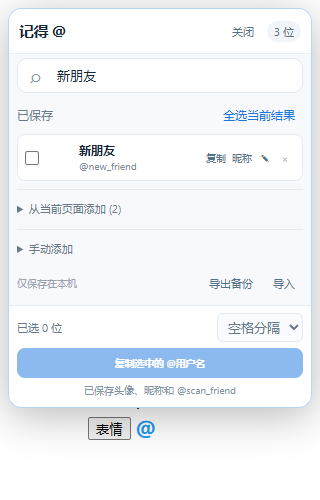
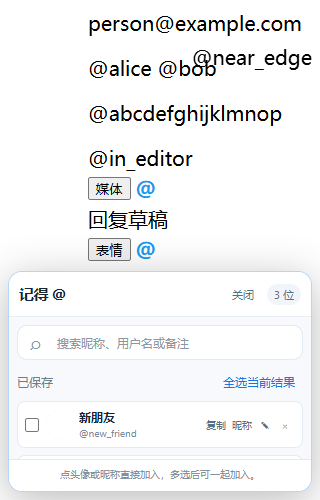
feat: insert saved mentions directly at the composer caret

diff --git a/content.js b/content.js
@@ -89,15 +89,22 @@
   document.addEventListener('keydown', event => { if (event.key === 'Escape') hide(); });
 })();
 
-// Mount one small launcher in each editor toolbar, outside its editable DOM. No editor
-// text, selection, submit button or X network request is changed.
+// Mount one small launcher in each editor toolbar. Only an explicit contact click
+// inserts mentions into its bound editor; the extension never submits a post.
 (() => {
   const editorSelector = '[contenteditable="true"][data-testid^="tweetTextarea_"],textarea[data-testid^="tweetTextarea_"]';
   const mounted = new Map();
-  let panel, frame, launcher, desiredHeight = 280;
+  let panel, frame, launcher, desiredHeight = 280, composerToken, bookmark;
+  function remember(editor) {
+    if (editor instanceof HTMLTextAreaElement) return {editor,start:editor.selectionStart,end:editor.selectionEnd};
+    const selection=window.getSelection();
+    if(selection?.rangeCount&&editor.contains(selection.getRangeAt(0).commonAncestorContainer))return {editor,range:selection.getRangeAt(0).cloneRange()};
+    return bookmark?.editor===editor?bookmark:{editor};
+  }
   function close(restoreFocus = true) {
     panel?.remove(); panel = null; frame = null;
     launcher?.setAttribute('aria-expanded', 'false');
+    composerToken = null;
     if (restoreFocus && launcher?.isConnected) launcher.focus();
   }
   function fit() {
@@ -114,13 +121,16 @@
   }
   function open(button) {
     if(panel&&launcher===button){close();return;}
-    close(false); launcher = button;desiredHeight=280;launcher.setAttribute('aria-expanded','true');
+    const editor=[...mounted].find(([,record])=>record.button===button)?.[0];
+    if(!editor?.isConnected)return;
+    const savedSelection=remember(editor);
+    close(false); launcher = button;bookmark=savedSelection;composerToken=crypto.randomUUID();desiredHeight=280;launcher.setAttribute('aria-expanded','true');
     panel = document.createElement('div');
     panel.dataset.xmsPanel = '';
     panel.setAttribute('role', 'dialog'); panel.setAttribute('aria-label', '记得 @ 收藏');
     panel.style.cssText = 'box-sizing:border-box;position:fixed;z-index:2147483646;background:white;border:1px solid #b4d6fa;border-radius:14px;box-shadow:0 8px 40px #0004;overflow:hidden';
     frame = document.createElement('iframe');
-    frame.src = chrome.runtime.getURL('popup.html') + '?parentOrigin=' + encodeURIComponent(location.origin); frame.title = '记得 @ 收藏';
+    frame.src = chrome.runtime.getURL('popup.html') + '?parentOrigin=' + encodeURIComponent(location.origin) + '&composer=' + composerToken; frame.title = '记得 @ 收藏';
     frame.allow = 'clipboard-write';
     frame.style.cssText = 'width:100%;height:100%;border:0;display:block';
     panel.append(frame); document.documentElement.append(panel); fit();
@@ -175,6 +185,7 @@
       button.setAttribute('aria-label', '打开记得 @ 收藏'); button.setAttribute('aria-haspopup', 'dialog');
       button.setAttribute('aria-expanded', 'false');
       button.style.cssText = 'box-sizing:border-box;display:inline-flex;align-items:center;justify-content:center;flex:0 0 30px;width:30px;height:30px;min-width:30px;max-height:30px;padding:0;margin:0;border:0;border-radius:50%;background:transparent;color:rgb(29,155,240);font:600 20px/1 system-ui;cursor:pointer;touch-action:manipulation;vertical-align:middle';
+      button.addEventListener('pointerdown', () => { bookmark=remember(editor); });
       button.addEventListener('click', () => open(button));
       let floating = !toolbar;
       if (toolbar) {
@@ -202,7 +213,11 @@
   }).observe(document.documentElement, { childList: true, subtree: true });
   window.addEventListener('message', event => {
     if (!frame || event.source !== frame.contentWindow || event.origin !== chrome.runtime.getURL('').replace(/\/$/, '')) return;
-    if(event.data?.type==='xms-close-panel')close();
+    if(event.data?.type==='xms-close-panel'){
+      // Let the native key/click finish before destroying its originating iframe.
+      const closingFrame=frame,restoreFocus=event.data.inserted!==true;
+      setTimeout(()=>{if(frame===closingFrame)close(restoreFocus);},60);
+    }
     else if(event.data?.type==='xms-panel-size'&&Number.isFinite(event.data.height)){
       const next=Math.max(180,Math.min(400,event.data.height));if(Math.abs(next-desiredHeight)>1){desiredHeight=next;fit();}
     }
@@ -214,6 +229,35 @@
   window.visualViewport?.addEventListener('scroll', reposition);
   window.addEventListener('resize', reposition);
   document.addEventListener('scroll', reposition, true);
+  chrome.runtime.onMessage.addListener((message,sender,respond)=>{
+    if(sender.id!==chrome.runtime.id||message?.type!=='xms-insert-mentions')return;
+    try{
+      const editor=bookmark?.editor;
+      if(!panel||message.composerToken!==composerToken||!editor?.isConnected||![...mounted].some(([node,record])=>node===editor&&record.button===launcher))throw new Error('原输入框已关闭，请从需要填写的输入框重新打开 @');
+      if(editor instanceof HTMLTextAreaElement?(editor.disabled||editor.readOnly):!editor.isContentEditable)throw new Error('此输入框暂时无法编辑，请使用复制');
+      if(!Array.isArray(message.handles)||!message.handles.length||message.handles.length>100||message.handles.some(handle=>typeof handle!=='string'||! /^[A-Za-z0-9_]{1,15}$/.test(handle)))throw new Error('用户名格式不正确');
+      const separator=message.separator==='\n'?'\n':' ',mentions=message.handles.map(handle=>'@'+handle).join(separator);
+      editor.focus();
+      if(document.activeElement!==editor&&!editor.contains(document.activeElement))throw new Error('无法定位原输入框，请重新打开 @');
+      let before,after,range;
+      if(editor instanceof HTMLTextAreaElement){before=editor.value.slice(0,bookmark.start);after=editor.value.slice(bookmark.end);}
+      else{
+        range=bookmark.range;
+        if(!range||!editor.contains(range.commonAncestorContainer)){range=document.createRange();range.selectNodeContents(editor);range.collapse(false);}
+        const left=range.cloneRange();left.selectNodeContents(editor);left.setEnd(range.startContainer,range.startOffset);before=left.toString();
+        const right=range.cloneRange();right.selectNodeContents(editor);right.setStart(range.endContainer,range.endOffset);after=right.toString();
+        const selection=window.getSelection();selection.removeAllRanges();selection.addRange(range);
+      }
+      const text=(before&&!/\s$/.test(before)?separator:'')+mentions+(!after||!/^\s/.test(after)?separator:'');
+      if(editor instanceof HTMLTextAreaElement){
+        Object.getOwnPropertyDescriptor(HTMLTextAreaElement.prototype,'value').set.call(editor,before+text+after);
+        editor.setSelectionRange(before.length+text.length,before.length+text.length);
+        editor.dispatchEvent(new InputEvent('input',{bubbles:true,inputType:'insertText',data:text}));
+      }else if(!document.execCommand('insertText',false,text))throw new Error('此输入框暂不支持直接加入，请使用复制');
+      bookmark=remember(editor);respond({ok:true});
+    }catch(error){respond({ok:false,error:error.message});}
+    return false;
+  });
   mount();
 })();
 

diff --git a/popup.js b/popup.js
@@ -5,6 +5,9 @@ const selected = new Set();
 let editing = false;
 let pageProfiles = [];
 let candidateSignature = '';
+const composerToken=new URLSearchParams(location.search).get('composer');
+const canInsert=window.parent!==window&&/^[a-f0-9-]{36}$/i.test(composerToken||'');
+let inserting=false;
 function parentOrigin(){try{const origin=new URLSearchParams(location.search).get('parentOrigin')||new URL(document.referrer).origin;return /^https:\/\/(www\.)?(x|twitter)\.com$/.test(origin)?origin:null;}catch{return null;}}
 function notifySize(){if(window.parent===window)return;requestAnimationFrame(()=>{const main=document.querySelector('main'),children=[...main.children].filter(e=>e.getClientRects().length),top=main.getBoundingClientRect().top,bottom=Math.max(top,...children.map(e=>e.getBoundingClientRect().bottom));const height=Math.ceil(document.querySelector('header').offsetHeight+document.querySelector('footer').offsetHeight+bottom-top+main.scrollTop+4),origin=parentOrigin();if(origin)window.parent.postMessage({type:'xms-panel-size',height},origin);});}
 function status(text, error = false) { $('status').textContent = text; $('status').classList.toggle('error', error); }
@@ -20,9 +23,12 @@ function filtered() {
 function updateSelection() {
   $('selection-count').textContent = `已选 ${selected.size} 位`;
   $('copy-selected').disabled = selected.size === 0;
+  $('insert-selected').disabled = selected.size === 0;
+  document.querySelector('footer').classList.toggle('has-selection',selected.size>0);
   const visible = filtered();
   $('select-all').textContent = visible.length && visible.every(entry => selected.has(entry.id)) ? '取消选择当前结果' : '全选当前结果';
   $('select-all').disabled = !visible.length;
+  notifySize();
 }
 function resetForm() {
   editing = false; $('add-form').reset(); $('handle').disabled = false;
@@ -51,7 +57,10 @@ function render() {
       if (check.checked) selected.add(entry.id); else selected.delete(entry.id);
       row.classList.toggle('selected', check.checked); updateSelection();
     });
-    const info = document.createElement('label'); info.className = 'person-info'; info.htmlFor = check.id;
+    const info = document.createElement(canInsert?'button':'label'); info.className = 'person-info';
+    if(canInsert){info.type='button';info.title='点击加入输入框';info.setAttribute('aria-label','插入 @'+entry.handle);info.addEventListener('click',()=>insertPeople([entry.id]));}
+    else info.htmlFor = check.id;
+    check.setAttribute('aria-label','选择 @'+entry.handle);
     const name = document.createElement('strong'); name.textContent = entry.displayName || '@' + entry.handle;
     const handle = document.createElement('small');handle.textContent='@'+entry.handle;
     const note = document.createElement('small'); note.textContent = entry.note; note.title = entry.note;note.hidden=!entry.note;
@@ -77,7 +86,9 @@ function render() {
       if (text === '×') button.className = 'remove';
       button.addEventListener('click', action); actions.append(button);
     }
-    row.append(check, avatar(entry), info, actions); $('list').append(row);
+    let picture=avatar(entry);
+    if(canInsert){const button=document.createElement('button');button.type='button';button.className='avatar-insert';button.title='加入 @'+entry.handle;button.setAttribute('aria-label','通过头像插入 @'+entry.handle);button.append(picture);button.addEventListener('click',()=>insertPeople([entry.id]));picture=button;}
+    row.append(check, picture, info, actions); $('list').append(row);
   }
   updateSelection();
   renderCandidates();
@@ -119,6 +130,15 @@ async function copy(text, message) {
     finally { field.remove(); }
   }
 }
+async function insertPeople(ids){
+  if(inserting)return;
+  inserting=true;
+  try{
+    await request({type:'insert',ids,composerToken,separator:$('separator').value});
+    const origin=parentOrigin();if(origin)window.parent.postMessage({type:'xms-close-panel',inserted:true},origin);
+  }catch(error){status(error.message,true);}
+  finally{inserting=false;}
+}
 $('add-form').addEventListener('submit', async event => {
   event.preventDefault(); $('save').disabled = true;
   try {
@@ -136,6 +156,7 @@ $('select-all').addEventListener('click', () => {
   render();
 });
 $('copy-selected').addEventListener('click', () => copy(copyMentions(entries, selected, $('separator').value === 'line' ? '\n' : ' '), `已复制 ${selected.size} 个 @用户名`));
+$('insert-selected').addEventListener('click',()=>insertPeople([...selected]));
 $('export').addEventListener('click', () => {
   const blob = new Blob([JSON.stringify({ version: 3, entries }, null, 2)], { type: 'application/json' });
   const url = URL.createObjectURL(blob); const link = document.createElement('a');
@@ -170,4 +191,5 @@ if (window.parent !== window) {
   document.addEventListener('keydown', event => { if (event.key === 'Escape') closePanel(); });
   notifySize();
 }
+if(canInsert){document.body.classList.add('direct-insert');$('insert-selected').hidden=false;$('copy-selected').textContent='复制';$('copy-selected').classList.remove('primary','copy');status('点头像或昵称直接加入，多选后可一起加入。');notifySize();}
 scanPage(true);

diff --git a/popup.css b/popup.css
@@ -3,3 +3,5 @@
 body{width:390px;max-width:100vw}#display-name{width:100%;margin-top:8px}button{min-height:36px;touch-action:manipulation}input,select{font-size:16px}.embedded{width:100%;height:100dvh;display:flex;flex-direction:column}.embedded header{padding:12px}.embedded main{flex:1;min-height:0;overflow:auto;padding:12px 12px 0}.embedded #list{max-height:none}.embedded footer{flex:none;padding:10px 12px}.embedded header .brand{display:none}.embedded #close-panel{margin-left:auto}.embedded .count{margin-left:0}.person{flex-wrap:wrap}.person-info{flex-basis:110px}.actions button{min-height:40px;min-width:34px}@media(max-width:350px){header{padding:14px}main{padding:12px 10px 0}footer{padding:10px}.person{gap:5px}.actions{margin-left:auto}.card{padding:10px}}
 
 body{width:340px}header{padding:10px 12px;gap:8px}.brand{width:28px;height:28px;font-size:22px;border-radius:9px}h1{font-size:15px;margin:0}header p{display:none}.count{font-size:11px;padding:3px 7px}main{padding:10px 10px 0}button{min-height:28px}input,select{font-size:13px}.search{margin:0 0 8px}.search input{padding:8px}.search span{font-size:19px}.list-top{margin-bottom:5px}.person{display:grid;grid-template-columns:14px 28px minmax(40px,1fr) auto;gap:6px;padding:7px;border-radius:8px}.person input{width:14px;height:14px;margin:0}.person-info{min-width:0}.person-info strong{font-size:12px;white-space:nowrap;overflow:hidden;text-overflow:ellipsis}.person-info small{font-size:10px;margin-top:1px;max-width:none}.actions{margin:0;gap:0}.actions button{font-size:10px;min-width:20px;min-height:26px;padding:2px 3px}.avatar{position:relative;display:grid;place-items:center;width:28px;height:28px;overflow:hidden;flex:none;border-radius:50%;background:#e3eef9;color:#4675a2;font-weight:600}.avatar img{position:absolute;inset:0;width:100%;height:100%;object-fit:cover}details{font-size:11px;border-top:1px solid #e5ebf2;margin-top:8px;padding-top:6px}summary{cursor:pointer;color:#657789;padding:5px 0;user-select:none}summary:hover{color:#1976df}.card{margin-top:5px;padding:10px}.card label{font-size:12px;margin-bottom:6px}.card input{padding:8px}#empty{padding:15px 4px;font-size:11px}#empty strong{font-size:12px}#empty p{margin:5px 0;font-size:11px}#scan-page{color:#1976df;font-size:11px}#scan-hint{color:#8292a2;font-size:10px;margin:4px 0}#candidates{display:grid;gap:3px;max-height:190px;overflow:auto}.candidate{display:flex;align-items:center;gap:7px;padding:5px 0}.candidate-info{flex:1;min-width:0}.candidate-info strong,.candidate-info small{display:block;white-space:nowrap;overflow:hidden;text-overflow:ellipsis}.candidate-info strong{font-size:12px}.candidate-info small{font-size:10px;color:#8292a2}.candidate button{font-size:11px;color:#1976df}.backup{padding:8px 0}.backup span{font-size:10px}footer{padding:8px 10px}.copy-top{margin-bottom:6px;font-size:11px}.copy{padding:8px}#status{margin:5px 0 0;font-size:10px}.embedded header{padding:8px 10px}.embedded main{padding:8px 8px 0}.embedded footer{padding:7px 8px}#close-panel{font-size:11px;padding:3px 5px}
+.person button.person-info{text-align:left;padding:0;color:inherit;min-height:28px;background:transparent}.person button.person-info:hover strong{color:#1976df}.avatar-insert{padding:0;width:28px;min-width:28px;height:28px;border-radius:50%}.footer-actions{display:flex;gap:6px}.footer-actions .copy{flex:1;min-width:0}.footer-actions #copy-selected:not(.copy){flex:none;font-size:11px;padding:6px 8px}
+.direct-insert footer:not(.has-selection) .copy-top,.direct-insert footer:not(.has-selection) .footer-actions{display:none}.direct-insert footer:not(.has-selection) #status{margin:0}

diff --git a/background.js b/background.js
@@ -3,7 +3,7 @@ import { mergeEntry, migrateEntries, enrichEntries } from './model.js';
 // One queue owns storage writes across popups and all X tabs.
 let queue = Promise.resolve();
 chrome.runtime.onMessage.addListener((message, sender, respond) => {
-  if (!['list', 'save', 'remove', 'import', 'enrich', 'scan'].includes(message?.type)) return;
+  if (!['list', 'save', 'remove', 'import', 'enrich', 'scan', 'insert'].includes(message?.type)) return;
   const extensionOrigin = chrome.runtime.getURL('');
   const trustedUI = sender.id === chrome.runtime.id && sender.url?.startsWith(extensionOrigin) && new URL(sender.url).pathname === '/popup.html';
   let trustedContent = false;
@@ -20,7 +20,15 @@ chrome.runtime.onMessage.addListener((message, sender, respond) => {
     const data = await chrome.storage.local.get({ entries: [] });
     let entries = migrateEntries(data.entries);
     let result = {};
-    if (message.type === 'save') {
+    if (message.type === 'insert') {
+      if (!sender.tab || !(sender.frameId > 0) || !/^[a-f0-9-]{36}$/i.test(message.composerToken || '')) throw new Error('请从 X 输入框旁的小 @ 打开名单后插入');
+      if (!Array.isArray(message.ids) || !message.ids.length || message.ids.length > 100) throw new Error('请选择 1–100 位联系人');
+      const people = [...new Set(message.ids)].map(id => entries.find(entry => entry.id === id));
+      if (people.some(person => !person)) throw new Error('联系人已变化，请重新打开名单');
+      const response = await chrome.tabs.sendMessage(sender.tab.id, { type:'xms-insert-mentions', composerToken:message.composerToken, handles:people.map(person=>person.handle), separator:message.separator==='line'?'\n':' ' }, {frameId:0});
+      if (!response?.ok) throw new Error(response?.error || '输入框不可用，请重新从输入框旁的小 @ 打开名单');
+      return {ok:true, inserted:people.length};
+    } else if (message.type === 'save') {
       result = mergeEntry(entries, message.handle, message.note, trustedUI, message.displayName, message.avatarUrl);
       entries = result.entries;
     } else if (message.type === 'remove') {

diff --git a/popup.html b/popup.html
@@ -18,7 +18,7 @@
     </form></details>
     <div class="backup"><span>仅保存在本机</span><button id="export" type="button">导出备份</button><button id="import" type="button">导入</button><input id="import-file" type="file" accept="application/json,.json" hidden></div>
   </main>
-  <footer><div class="copy-top"><span id="selection-count">已选 0 位</span><select id="separator" aria-label="复制格式"><option value="space">空格分隔</option><option value="line">每人一行</option></select></div><button id="copy-selected" class="primary copy" disabled>复制选中的 @用户名</button><p id="status" role="status" aria-live="polite">复制后，粘贴到 X 的正文或回复里。</p></footer>
+  <footer><div class="copy-top"><span id="selection-count">已选 0 位</span><select id="separator" aria-label="插入或复制格式"><option value="space">空格分隔</option><option value="line">每人一行</option></select></div><div class="footer-actions"><button id="insert-selected" class="primary copy" disabled hidden>加入输入框</button><button id="copy-selected" class="primary copy" disabled>复制选中的 @用户名</button></div><p id="status" role="status" aria-live="polite">复制后，粘贴到 X 的正文或回复里。</p></footer>
   <script type="module" src="popup.js"></script>
 </body>
 </html>

diff --git a/README.md b/README.md
@@ -2,7 +2,7 @@
 
 **有人说「写长文记得 @ 我」，下次却想不起用户名？把他们留在这里。**
 
-一个轻量的 Chrome / Edge 与 Firefox 插件：在 X 上选中 `@用户名`，点旁边的「保存」；发帖时勾选想 @ 的人，一次复制，直接粘贴。
+一个轻量的 Chrome / Edge 与 Firefox 插件：保存 X 联系人的头像、昵称和 `@用户名`；发帖时点小 @ 展开名单，再点联系人直接加入输入框，也支持多选批量加入或复制。
 
 [下载安装包](https://github.com/hskelp9527-pixel/x-mention-saver/releases/latest) · [反馈问题](https://github.com/hskelp9527-pixel/x-mention-saver/issues/new/choose) · [English](#english)
 
@@ -26,6 +26,7 @@
 - 自动去重：同一用户名忽略大小写；页面重复保存保留已有备注。
 - 收藏管理：手动添加、编辑备注、搜索、删除。
 - 一键复制：单人复制或多选复制，支持空格与换行分隔。
+- 直接加入：在编辑器小 @ 下拉中点头像或昵称插入一人，勾选多人后点「加入输入框」。
 - 本机备份：导出 / 导入 JSON，不需要账号或云服务。
 
 ## 安装，三步即可
@@ -43,6 +44,8 @@
 **保存：** 在 X / Twitter 页面拖选完整的 `@用户名`，点击「+ 保存」，自动读取当前页面中与该账号明确对应的昵称和头像。也可以点编辑工具栏的小「@」，展开「从当前页面添加」，从扫描结果一键保存。未加载到页面的用户不会被扫描；缺失资料可在该用户再次出现时补齐。手动添加默认折叠，作为补充入口。
 
 **复制：** 打开插件，勾选需要 @ 的人，点击「复制选中的 @用户名」，粘贴到正文或回复。搜索只缩小显示范围，复制仍包含全部已勾选的人；数量显示在底部。每次重新打开弹窗，勾选会清空，收藏与备注保留。
+
+**直接加入输入框：** 从发帖或回复框原工具栏的小「@」打开下拉，点联系人的头像或昵称，用户名就加入该输入框的原光标位置，随后收起名单、回到输入框。选中文字会像粘贴一样被替换；可用原生撤销恢复。勾选多人后才展开「加入输入框」与复制操作，自动补好分隔空白。此功能只填写草稿，不点击发布。浏览器工具栏独立弹窗仍使用复制功能。
 
 **备份：** 点击「导出备份」下载 JSON。「导入」会合并，重复用户名保留已有备注。手动重复添加则可以更新备注。
 
@@ -98,7 +101,7 @@ MIT licensed. Independent project, not affiliated with X Corp.
 
 ## 1.1.0：手机与编辑框入口
 
-Windows Chrome / Edge 使用 `x-mention-saver.zip`。在 X 发帖或回复的原工具栏点击小「@」按钮（悬停提示「记得 @」）打开收藏面板；支持搜索昵称、@ID、备注，多选复制，单独复制 @ID 或显示昵称。点击「关闭」或按 Escape 返回原入口。面板使用扩展来源 iframe，收藏不会通过页面消息返回给 X；不会修改草稿或自动发帖。
+Windows Chrome / Edge 使用 `x-mention-saver.zip`。在 X 发帖或回复的原工具栏点击小「@」按钮（悬停提示「记得 @」）打开收藏面板；支持搜索昵称、@ID、备注，点击联系人直接加入输入框，多选加入或复制，单独复制 @ID 或显示昵称。点击「关闭」或按 Escape 返回原入口。面板使用扩展来源 iframe，收藏不会通过页面消息返回给 X；只在用户点击加入时填写选中的 @用户名，不提交帖子。
 
 选中 @ID 保存时，只有明确对应同一账号的 X User-Name / UserCell / UserName 区块才读取昵称和头像；无法确认时保留为空，可在面板中手动编辑昵称。旧收藏自动迁移，备注、ID 和原时间保留；旧 JSON 继续可导入，新导出格式为 v3。页面扫描会更新已收藏用户的非空昵称和头像，保留备注。复制 @ID 时强制空格/换行分隔，并在整段前后保留空白，避免与相邻正文挤在一起；显示昵称不是可用的 @ 提及。
 

diff --git a/progress.md b/progress.md
@@ -1,13 +1,11 @@
 # 桌面交付验证记录
 
-2026-10-21（Asia/Singapore）。主 Agent 已集中通过 5 项模型/后台/状态测试、对应清单检查、真实 Edge 扩展模拟 X 浏览器交互及打包白名单检查。三个插件同时加载的集成测试通过，原草稿保留，网络观察互不干扰。
+2026-10-21（Asia/Singapore），当前版本 1.3.0。用户已将手机验收留待自己处理。
 
-独立对抗性复审：代码与桌面交付 8.4/10；手机电脑全范围 7.8/10。此前发现的跨账号提交、旧响应回滚、Escape 关闭及弹窗层级问题已修复。
+主 Agent 集中验证：npm ci、8 项模型/后台权限与迁移测试、真实扩展的模拟 X 浏览器回归、Firefox 静态检查、JS 语法与三份 ZIP 打包。头像/昵称/用户名明确关联，页面扫描仅补齐已收藏用户，新用户显式保存，旧备份与备注保留；下拉默认折叠、跟随滚动，离屏/外点/Escape 收起，不增加原工具栏行高。
 
-用户已将手机验收留待自己处理。本次不把窄屏测试当手机验收；Firefox Android 未真机、未 AMO 签名，Safari 是转换源（可在线 Packager 或 Mac Xcode 转换），未签名安装。安卓 Chrome、iPhone Chrome、X App 不运行本扩展。
+本轮直接插入测试覆盖：原光标中间加入、选中文字替换、批量安全分隔、原生 input 与一次撤销、多个编辑框不串写、失效 composerToken 拒绝。点击头像或昵称加入；勾选后再展开批量操作。仅填写原草稿，不自动提交帖子。跨来源面板等待原生点击/按键完成后关闭。
 
-真实 X 仅做只读结构调查，不自动发帖/取关/改期/取消；新安排表非空响应仍需实站验证。GitHub 检查/发布工作流已接入，远端执行结果另行确认。
+独立 Agent 只读对抗复审：桌面 8.6/10，通过，无阻断项。v1.3.0 三个扩展共存测试通过，草稿保留，网络观察互不干扰。v1.2.0 GitHub Checks 已成功；v1.3.0 远端结果以关联 PR 的 Checks 为准。
 
-当前版本 1.2.0。2026-10-21 本轮主 Agent 已通过 npm ci、7 项模型/后台测试、Firefox 静态检查、JS 语法检查、真实扩展的模拟 X 浏览器回归与三份 ZIP 打包。新增头像/昵称/用户名匹配与保存、页面扫描显式收藏、默认折叠、滚动定位、离屏/外点/Escape 关闭、旧备份与备注保留验证。头像仅使用官方 HTTPS 图片地址；不调用 X API。浏览器测试使用模拟用户卡片，不代表所有真实 X 页面版本均已验证。
-
-本轮独立 Agent 只读对抗性复审：桌面 8.5/10，通过；未发现阻止交付的问题。手机验收仍由用户处理。本轮三个扩展共存测试通过（显式聚焦测试页面后操作跨来源 iframe）；GitHub Checks 待本轮推送后确认。
+当前浏览器测试使用模拟用户区块和编辑器，不代表所有真实 X 页面版本已验证。Firefox Android 未真机、未 AMO 签名，Safari 仅转换源；安卓 Chrome、iPhone Chrome、X App 不运行本扩展。手机端由用户验收。

diff --git a/AGENTS.md b/AGENTS.md
@@ -5,3 +5,5 @@
 运行源码无需构建。数据仅本机保存，只读已加载的 X 用户区块，不调用 X API；收藏面板可加载已保存的官方头像图片（仅允许 HTTPS 的 pbs.twimg.com/profile_images/ 与 abs.twimg.com/sticky/default_profile_images/）。不自动发帖，不操作用户的 X 账号。Chromium 使用 MV3 module worker；Firefox 打包为 background scripts，不能声明 service_worker。Android Chrome / iOS Chrome / X App 不支持本扩展；Firefox Android 与 Safari 转换源须明确区分静态兼容与实机验证。
 
 交付前主 Agent 统一执行 npm ci、npm test、npm run test:browser、npm run check:firefox、python scripts/package.py。子 Agent 只生成代码、测试和本地 commit，不执行构建、测试、类型检查。运行文件修改须同步版本、CHANGELOG、README、progress.md、feature_list.json 与 CI 打包清单。收藏绝不通过 MAIN world 消息返回。
+
+直接插入只响应用户在扩展 iframe 的点击：后台只向同 tab topframe 发送选中的用户名与随机 composerToken；content 必须再次校验令牌、原编辑器和焦点。使用原生输入保留撤销，禁止自动发布或将完整收藏传给页面。

diff --git a/CHANGELOG.md b/CHANGELOG.md
@@ -1,5 +1,12 @@
 # Changelog
 
+## 1.3.0 — 2026-10-21
+
+- 在编辑框小 @ 下拉中点击联系人头像或昵称，直接将 @用户名加入原输入框；多选后可一次加入，复制功能保留。
+- 绑定打开名单的编辑器并保存光标/选区，自动补空白分隔；使用原生输入与撤销，不提交帖子。
+- 仅传递用户选中的用户名；后台和页面分别校验请求来源、随机令牌与原编辑器，拒绝失效/串框请求。
+- 默认收起批量操作栏，勾选后再展开；修复跨来源面板在原生按键/点击完成前关闭的时序。
+
 ## 1.2.0 — 2026-10-21
 
 - 从页面上明确对应的作者栏、用户卡片和主页读取头像、昵称、@用户名，一起保存；旧收藏再次出现在页面时自动补齐资料，保留备注。
